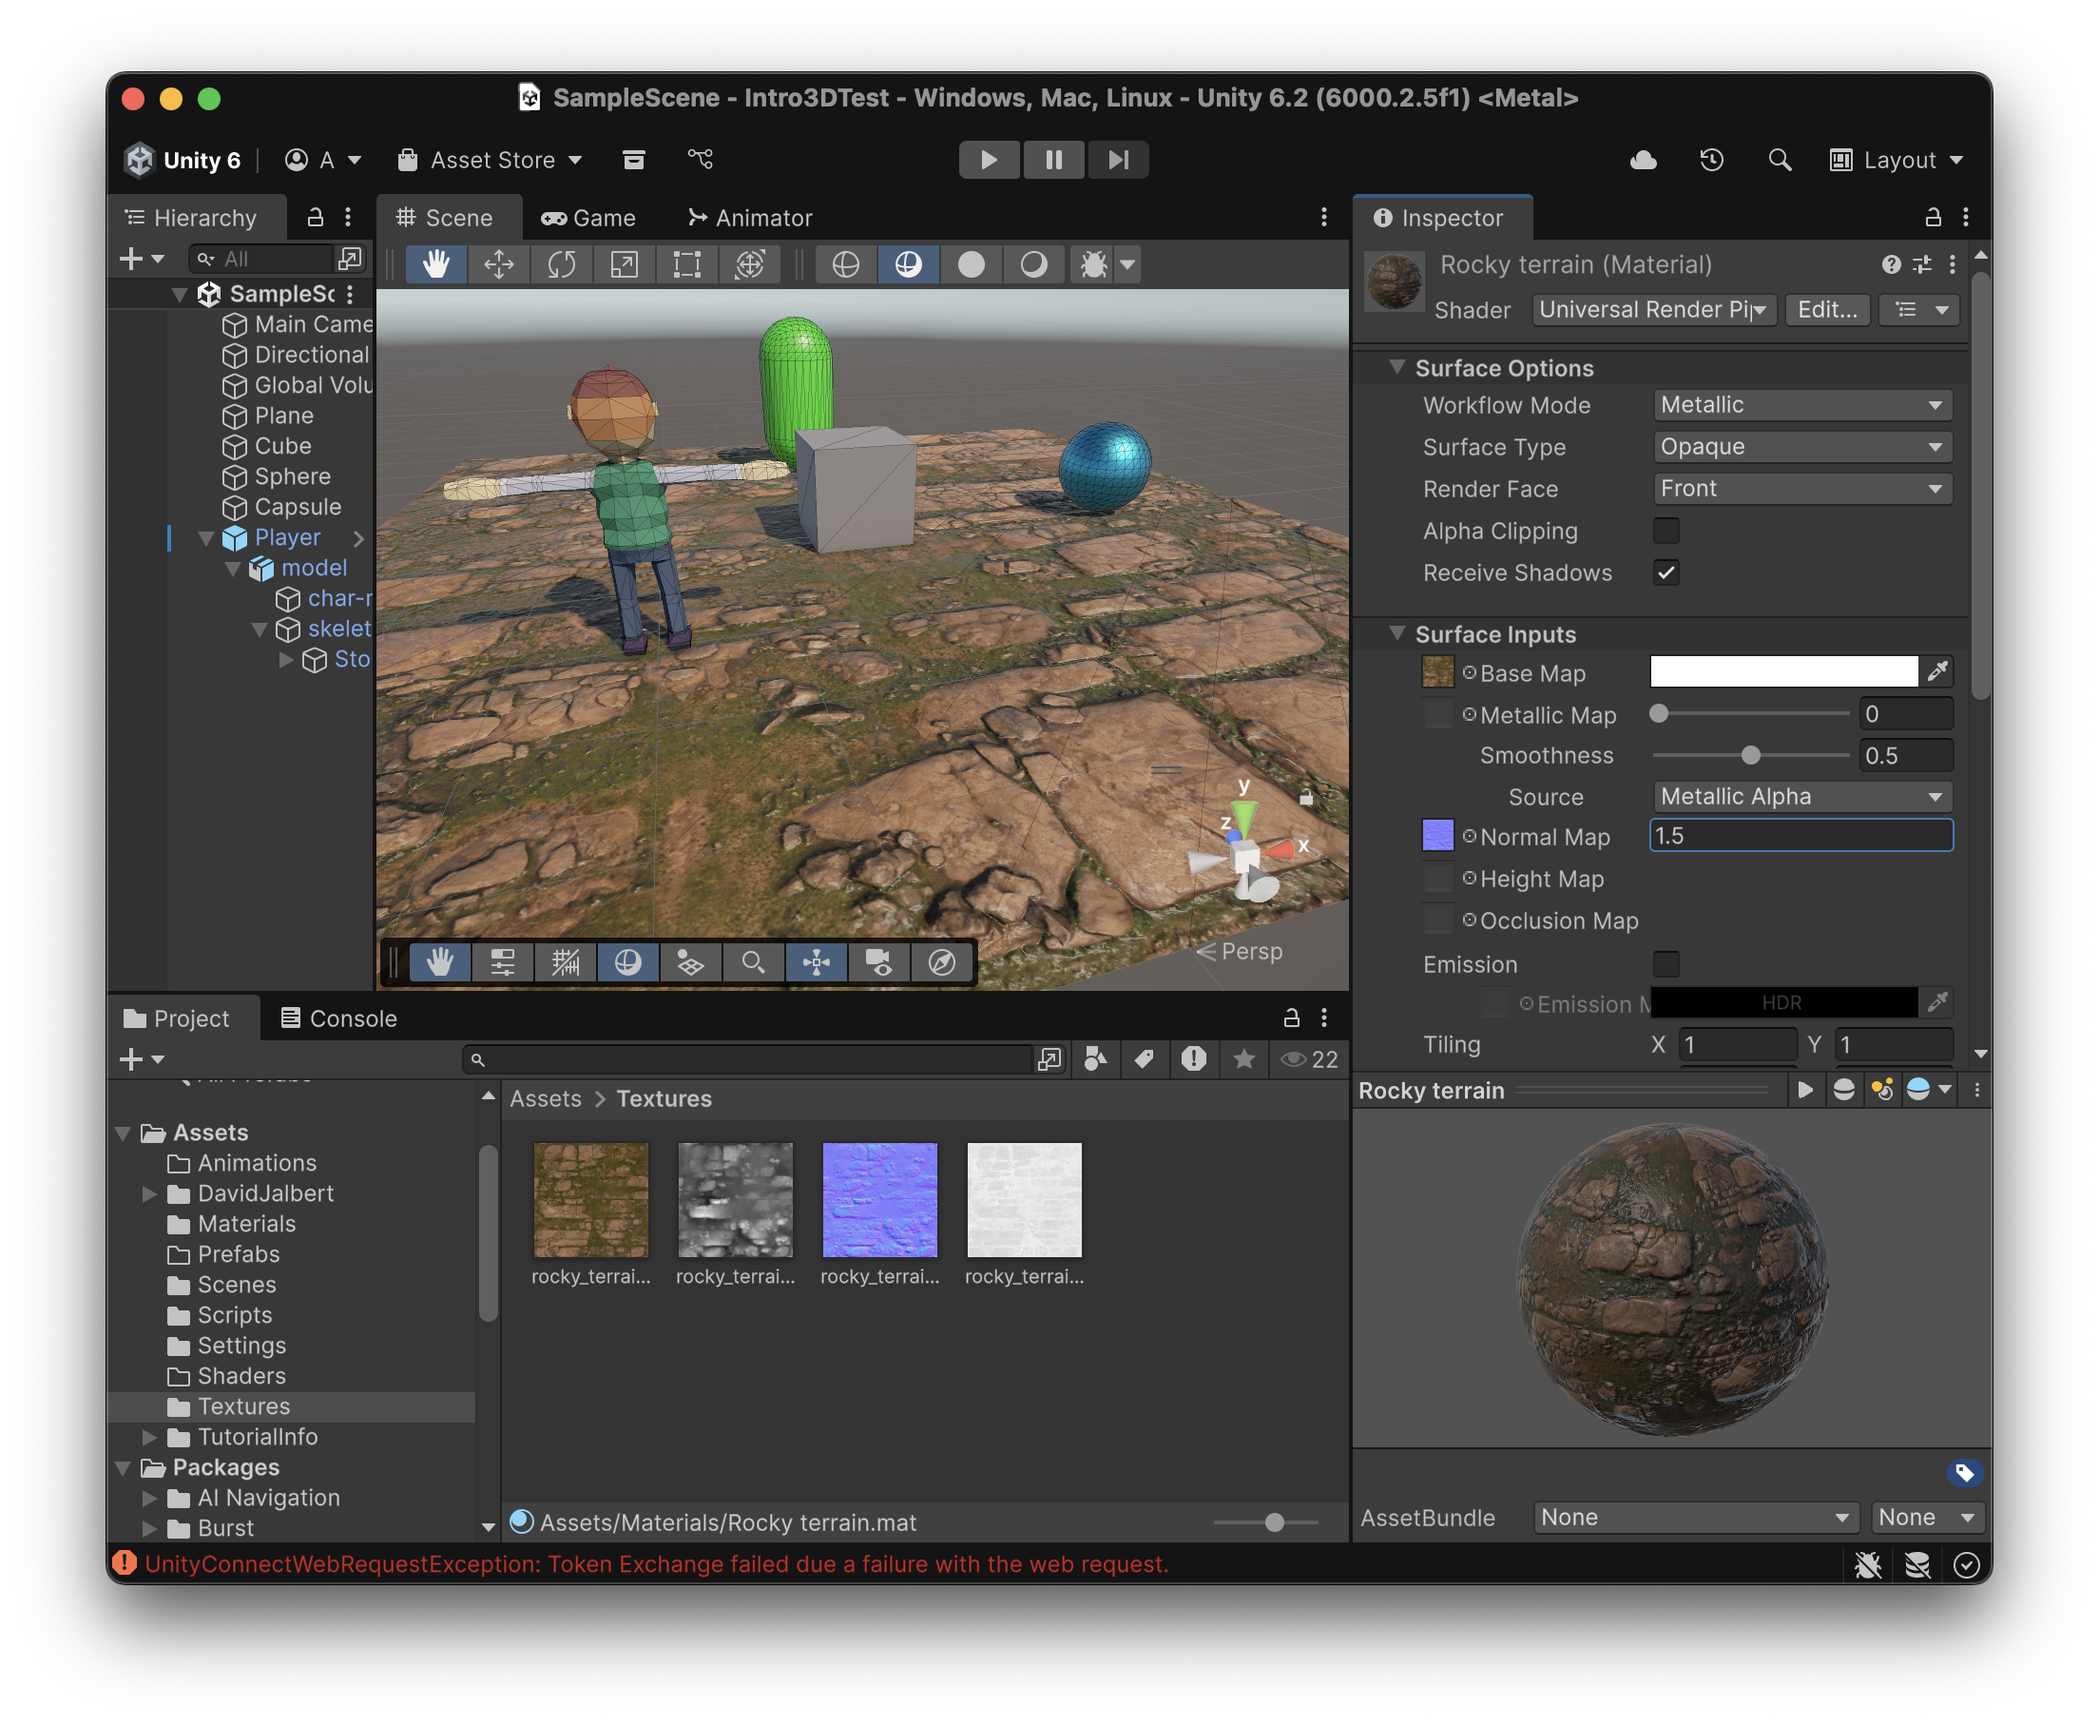
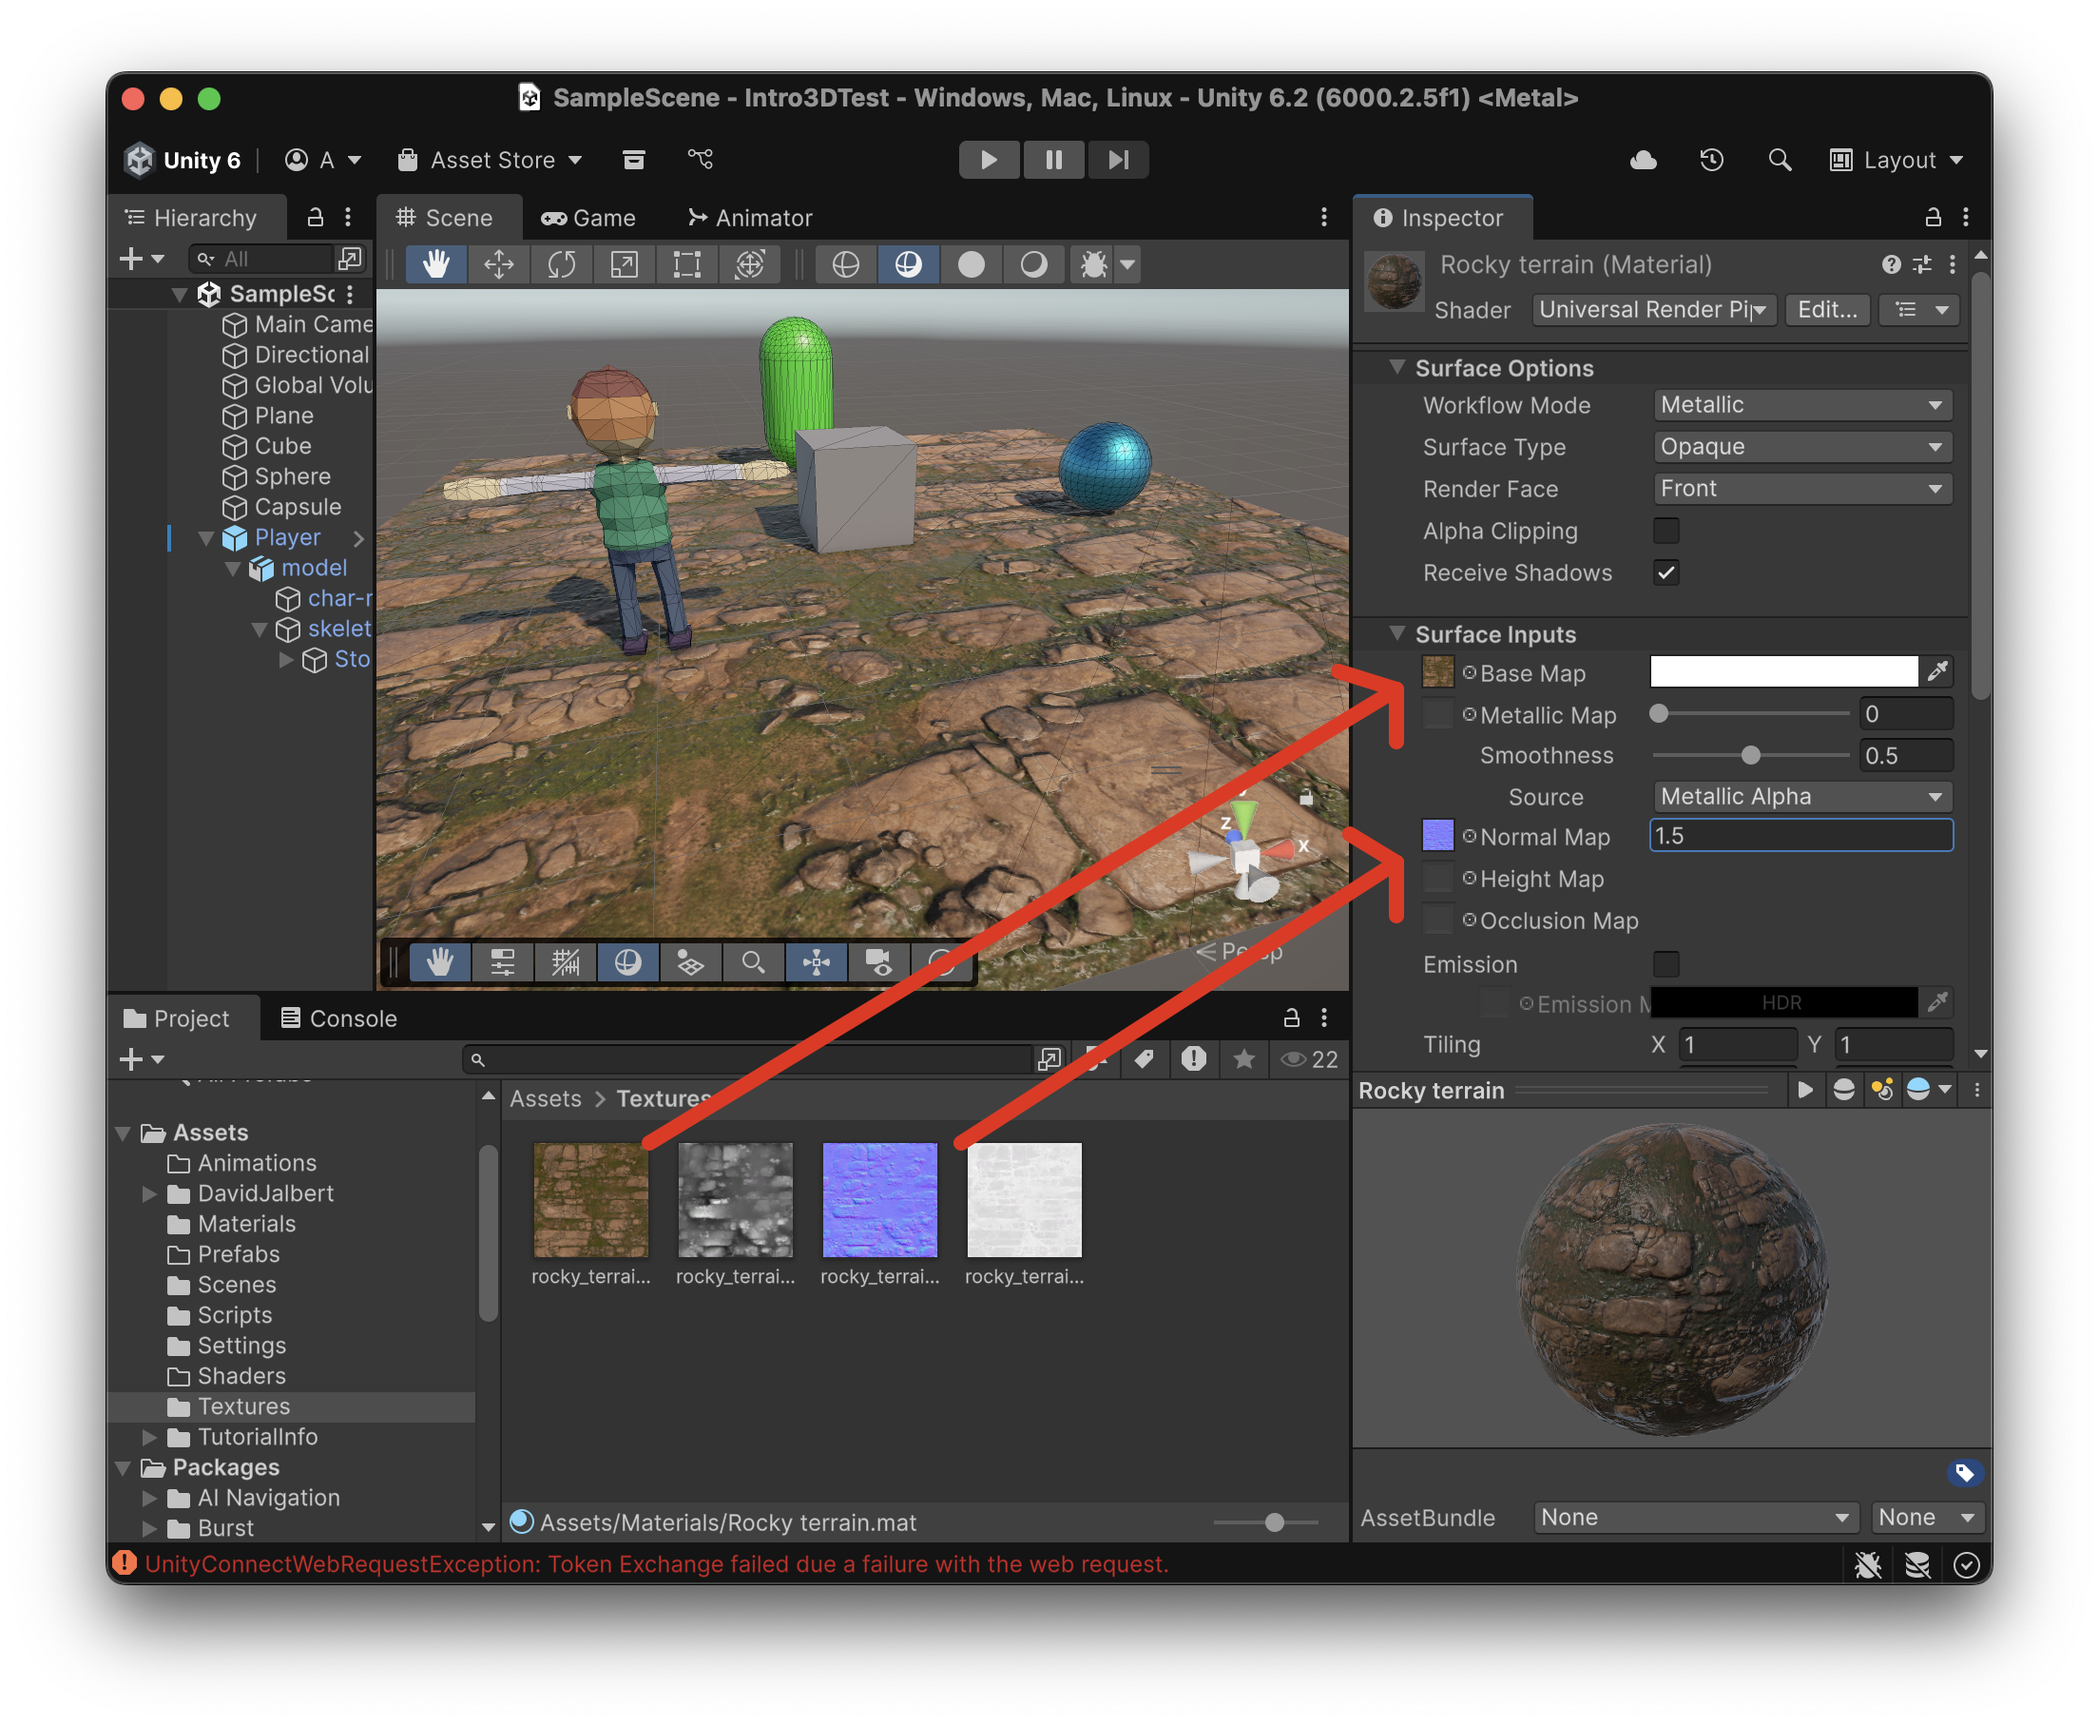
.

diff --git a/04-Intro3D/03-Llums.md b/04-Intro3D/03-Llums.md
@@ -73,3 +73,56 @@ Afegeix una *Light > Spot light* a l'escena, amb els paràmetres:
 <img src="./assets/llums-doubleshadow.png" style="width: 90%; max-width: 200px">
 </center>
 <br/>
+
+## Materials emissius
+
+No són pròpiament llums, però es pot fer que un material sembli que emet radiació llumínica.
+
+A la carpeta **"Assets > Materials"** crea un nou material amb:
+
+*Create > Material*
+
+Anomena al material **"Emissive light"**. Amb propietats:
+
+- Emission: (activat)
+- Emission map:
+    - Red: 190
+    - Green: 170
+    - Blue: 0
+    - Intensity: 4
+
+<center>
+<img src="./assets/llums-emission.png" style="width: 90%; max-width: 400px">
+</center>
+<br/>
+
+Assigna aquest nou material a l'objecte **"Cube"**
+
+<center>
+<img src="./assets/llums-lightedcube.png" style="width: 90%; max-width: 500px">
+</center>
+<br/>
+
+**Important!** Un material *"Emissive"* no emet sombres! Cal afegir algun tipus de llum aprop seu, que faci aquesta funció.
+
+Afegeix una **"Light > Point Light"** com a filla de l'objecte **"Cube"**, amb paràmetres:
+
+- Color: Groc
+    - Red: 190
+    - Green: 170
+    - Blue: 0
+- Intensity: 10
+- Shadow Type: Hard Shadows
+- Resolution: Low
+
+<center>
+<img src="./assets/llums-pointlightchild.png" style="width: 90%; max-width: 300px">
+</center>
+<br/>
+
+Així quan el cub es mogui, iluminarà els objectes propers.
+
+<center>
+<img src="./assets/llums-pointlight.png" style="width: 90%; max-width: 500px">
+</center>
+<br/>

diff --git a/04-Intro3D/02-Materials.md b/04-Intro3D/02-Materials.md
@@ -145,39 +145,11 @@ Aplica el terreny a l'objecte **"Plane"**, de moment no es veuen massa canvis.
 
 Per fer que es reflexi més la llum, canvia el valor de:
 
+- Arrossega la textura principal *(albedo)* a **"Base Map"**
+- Arrossega la textura lila a **"Normal Map"**
 - Normal Map: 1.5
 
 <center>
 <img src="./assets/materials-maps.png" style="width: 90%; max-width: 700px">
 </center>
 
-## Materials emissius
-
-No són pròpiament llums, però es pot fer que un material sembli que emet radiació llumínica.
-
-A la carpeta **"Assets > Materials"** crea un nou material amb:
-
-*Create > Material*
-
-Anomena al material **Emissive light"**. Amb propietats:
-
-- Emission: (activat)
-- Emission map:
-    - Red: 190
-    - Green: 170
-    - Blue: 0
-    - Intensity: 4
-
-<center>
-<img src="./assets/materials-emission.png" style="width: 90%; max-width: 400px">
-</center>
-<br/>
-
-Assigna aquest nou material a l'objecte **"Cube"**
-
-<center>
-<img src="./assets/materials-lightedcube.png" style="width: 90%; max-width: 500px">
-</center>
-<br/>
-
-**Important!** Un material *"Emissive"* no emet sombres! Cal afegir algun tipus de llum aprop seu, que faci aquesta funció.
